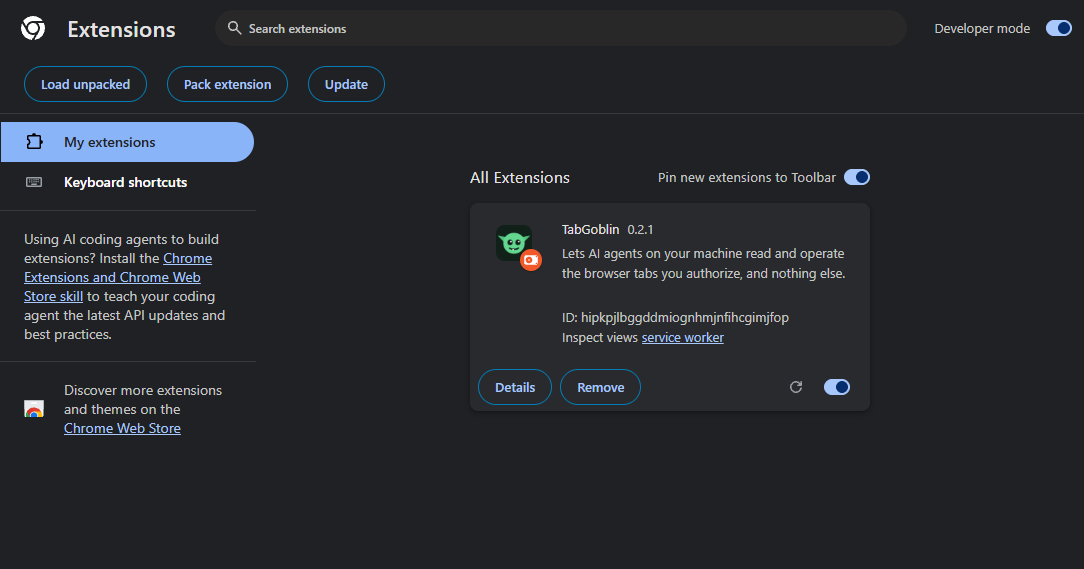
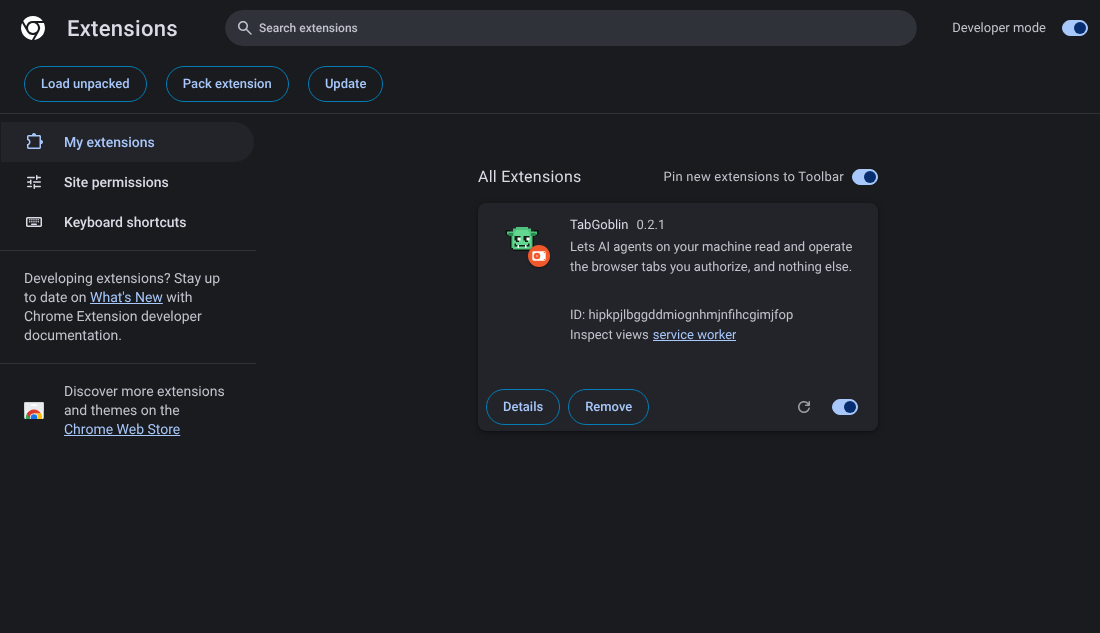
The extensions page's picture taken again, with the pixel goblin on its card

diff --git a/docs/agents/validation-log.md b/docs/agents/validation-log.md
@@ -5,7 +5,7 @@ When this passes about ten entries, fold the oldest into one summary line.
 
 ## 2026-11-26, branch `claude/goblin-mascot` from `ebdfafe`: the pixel goblin, and its review mended
 
-In the same Linux container (OpenJDK 25.0.5, Chromium 1243 through the `--no-sandbox` wrapper). `node art/mascot.ts` wrote the icons, the sprite sheet, its index and `docs/images/mascot.png`; every animation and the icons were looked at enlarged on the panel's ground. The header was drawn in a frame of working, sleeping, confused and guarding with a probe (not in the repository): nothing of a frame meets the words. The real window opened at scale 1 and at `-Dglass.gtk.uiScale=2`: the goblin is sharp at both. `HEADED=1 node screenshots.mjs` drew the popup and the notice again; each changed picture looked at; the three text examples it changed (a page's height, from the font) and the extensions page (this container's Chromium says it is managed) were put back. Passed: the extension's check, 218 tests (`mascot.test.ts` four, the notice's face among `notice.test.ts`); Maven's package under `xvfb-run`, 223 tests and none skipped, with the mood's rules in `PanelModelTest` and the sprite's playing in `PanelTest` (a new mood after a whole round, the wait called off, still while hidden); the end-to-end suite, 110 of 110. Not run: Windows and macOS; the animations seen moving in a real window (frames, and the timeline's state and its rounds through `tick`, were checked).
+In the same Linux container (OpenJDK 25.0.5, Chromium 1243 through the `--no-sandbox` wrapper). `node art/mascot.ts` wrote the icons, the sprite sheet, its index and `docs/images/mascot.png`; every animation and the icons were looked at enlarged on the panel's ground. The header was drawn in a frame of working, sleeping, confused and guarding with a probe (not in the repository): nothing of a frame meets the words. The real window opened at scale 1 and at `-Dglass.gtk.uiScale=2`: the goblin is sharp at both. `HEADED=1 node screenshots.mjs` drew the popup and the notice again; each changed picture looked at; the three text examples it changed (a page's height, from the font) were put back. The extensions page was taken again by a script of the session (not in the repository) with the steps of `screenshots.mjs`, in Chrome's dark theme as before, and with the line that this container's browser is managed by an organization hidden before the capture: the container's own policies put it there, and a reader's Chrome does not show it. The ID and the card without an *Errors* button, which the installation guide asks to check, are in it. Passed: the extension's check, 218 tests (`mascot.test.ts` four, the notice's face among `notice.test.ts`); Maven's package under `xvfb-run`, 223 tests and none skipped, with the mood's rules in `PanelModelTest` and the sprite's playing in `PanelTest` (a new mood after a whole round, the wait called off, still while hidden); the end-to-end suite, 110 of 110. Not run: Windows and macOS; the animations seen moving in a real window (frames, and the timeline's state and its rounds through `tick`, were checked).
 
 ## 2026-11-25, working tree from `a1107fc`: the fixes of the branch's review
 

diff --git a/docs/agents/state.md b/docs/agents/state.md
@@ -4,7 +4,7 @@ Last updated: 2026-11-25, the evening. Claims here go stale; check the date, the
 
 ## The pixel goblin, 2026-11-26
 
-On branch `claude/goblin-mascot`, made from `claude/branch-review-fixes`, on the owner's word and to the owner's two pictures (a goblin in full with a hood, a pickaxe and a z, and the face that is the icon now). One drawing, `art/goblin.ts`, is every picture of the goblin: the icons (also the server's window icon), the popup's logo, the notice's face, and the panel's sprites; `art/mascot.ts` writes the files, and a test holds them to it. A critical review of the first form followed, on the owner's word, and its twelve points are mended in the second commit: the props stay in the goblin's own room, a running call is shown while it runs, a new mood waits for a whole round, at rest it is still but for a blink, it waits while the browser is not connected, the body stands out on the dark ground, the satchel and strap are gone, walking is a two-pixel step, the eyes have a shine of two by two, the 48-pixel icon is a 24-pixel face, a refusal is a shield and not a puzzle, and the z is one quiet one. The popup's and the notice's pictures in `docs/images` are drawn again (in this container's font). **Left:** no hood (the owner's icon has none); the look on Windows and macOS is not seen; the extensions page's picture is the old one, as a new one here showed this container's managed Chromium. What passed is in the validation log.
+On branch `claude/goblin-mascot`, made from `claude/branch-review-fixes`, on the owner's word and to the owner's two pictures (a goblin in full with a hood, a pickaxe and a z, and the face that is the icon now). One drawing, `art/goblin.ts`, is every picture of the goblin: the icons (also the server's window icon), the popup's logo, the notice's face, and the panel's sprites; `art/mascot.ts` writes the files, and a test holds them to it. A critical review of the first form followed, on the owner's word, and its twelve points are mended in the second commit: the props stay in the goblin's own room, a running call is shown while it runs, a new mood waits for a whole round, at rest it is still but for a blink, it waits while the browser is not connected, the body stands out on the dark ground, the satchel and strap are gone, walking is a two-pixel step, the eyes have a shine of two by two, the 48-pixel icon is a 24-pixel face, a refusal is a shield and not a puzzle, and the z is one quiet one. The popup's and the notice's pictures in `docs/images` are drawn again (in this container's font). **Left:** no hood (the owner's icon has none); the look on Windows and macOS is not seen. The extensions page's picture was taken with this container's Chromium, with the line that it is managed by an organization hidden: the next run of `screenshots.mjs` on a machine of the owner's draws it plainly. What passed is in the validation log.
 
 ## Review of `claude/branch-review-xcf2ty`, 2026-11-25
 
